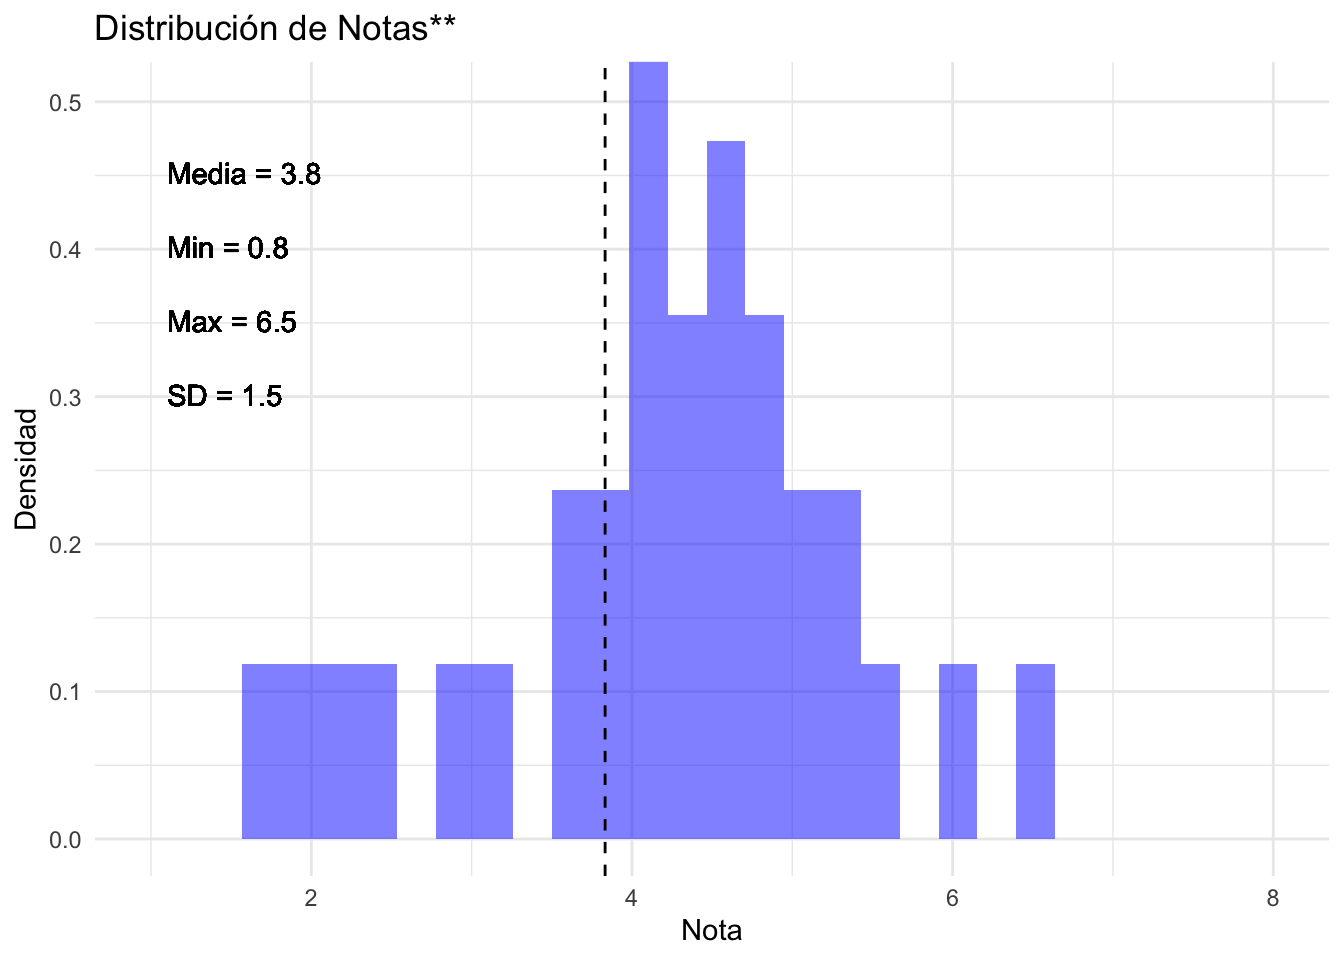
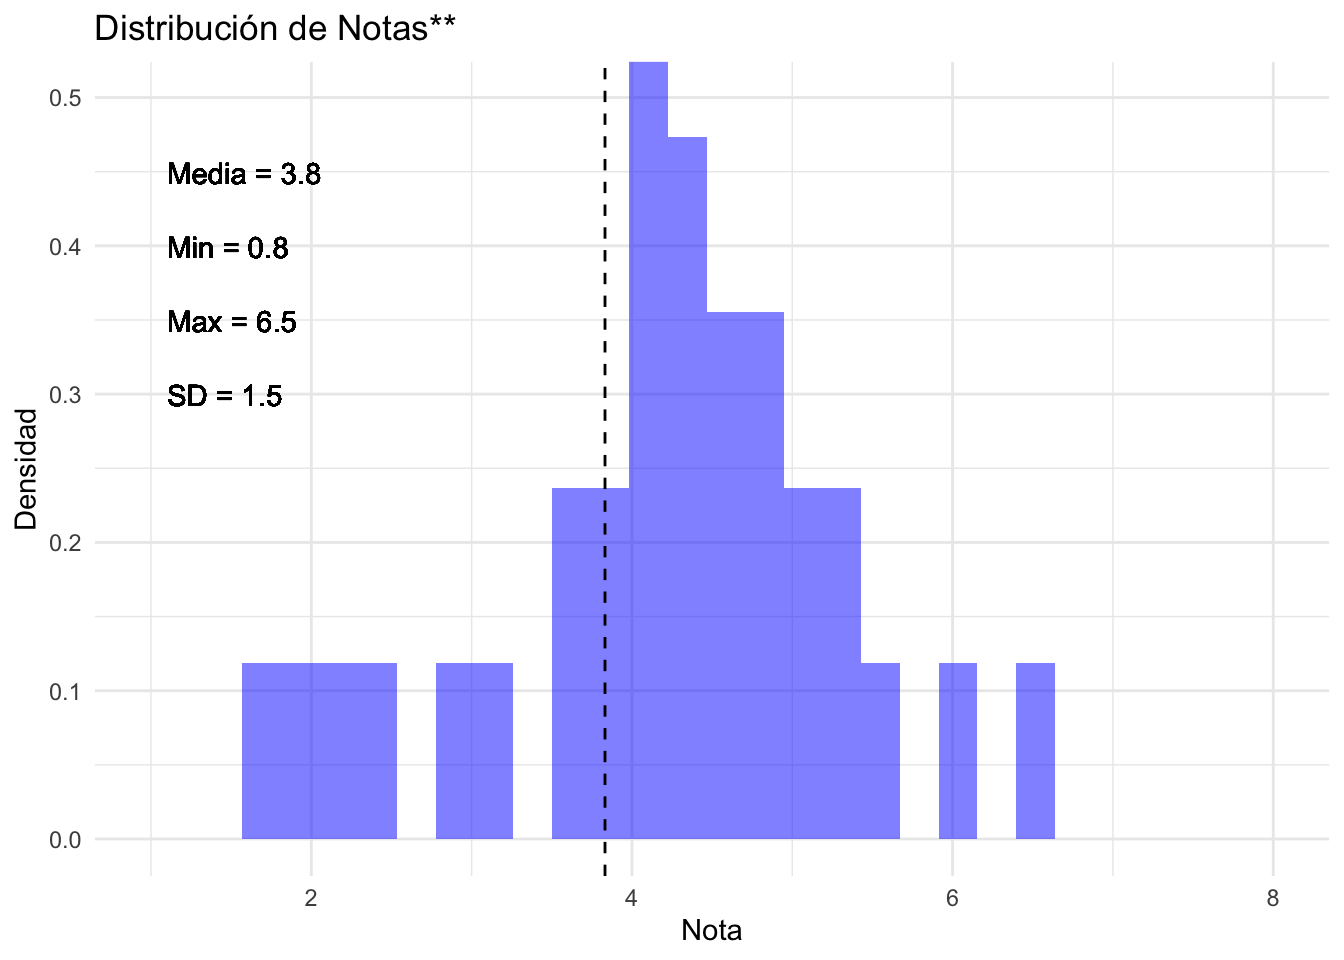
Update

diff --git a/exams/notas_final.html b/exams/notas_final.html
@@ -90,272 +90,272 @@ ul.task-list li input[type="checkbox"] {
 <tr class="odd">
 <td style="text-align: left;">19759810-7</td>
 <td style="text-align: right;">3.3</td>
-<td style="text-align: right;">1.10</td>
-<td style="text-align: right;">1</td>
+<td style="text-align: right;">1.1</td>
+<td style="text-align: right;">1.0</td>
 <td style="text-align: right;">1.7</td>
 <td style="text-align: right;">0.09</td>
 </tr>
 <tr class="even">
 <td style="text-align: left;">21089698-8</td>
 <td style="text-align: right;">5.5</td>
-<td style="text-align: right;">3.72</td>
-<td style="text-align: right;">4</td>
-<td style="text-align: right;">4.3</td>
+<td style="text-align: right;">3.7</td>
+<td style="text-align: right;">3.7</td>
+<td style="text-align: right;">4.2</td>
 <td style="text-align: right;">0.56</td>
 </tr>
 <tr class="odd">
 <td style="text-align: left;">19815180-7</td>
 <td style="text-align: right;">3.5</td>
-<td style="text-align: right;">1.79</td>
-<td style="text-align: right;">6</td>
+<td style="text-align: right;">1.8</td>
+<td style="text-align: right;">5.9</td>
 <td style="text-align: right;">3.5</td>
 <td style="text-align: right;">0.26</td>
 </tr>
 <tr class="even">
 <td style="text-align: left;">20415793-6</td>
 <td style="text-align: right;">1.0</td>
-<td style="text-align: right;">1.00</td>
-<td style="text-align: right;">1</td>
+<td style="text-align: right;">1.0</td>
+<td style="text-align: right;">1.0</td>
 <td style="text-align: right;">1.0</td>
 <td style="text-align: right;">0.06</td>
 </tr>
 <tr class="odd">
 <td style="text-align: left;">20186904-8</td>
 <td style="text-align: right;">2.5</td>
-<td style="text-align: right;">4.21</td>
-<td style="text-align: right;">6</td>
+<td style="text-align: right;">4.2</td>
+<td style="text-align: right;">5.5</td>
 <td style="text-align: right;">4.1</td>
 <td style="text-align: right;">0.44</td>
 </tr>
 <tr class="even">
 <td style="text-align: left;">20968980-4</td>
 <td style="text-align: right;">5.6</td>
-<td style="text-align: right;">3.79</td>
-<td style="text-align: right;">6</td>
+<td style="text-align: right;">3.8</td>
+<td style="text-align: right;">6.1</td>
 <td style="text-align: right;">5.0</td>
 <td style="text-align: right;">0.82</td>
 </tr>
 <tr class="odd">
 <td style="text-align: left;">20951560-1</td>
 <td style="text-align: right;">4.5</td>
-<td style="text-align: right;">3.28</td>
-<td style="text-align: right;">5</td>
+<td style="text-align: right;">3.3</td>
+<td style="text-align: right;">4.7</td>
 <td style="text-align: right;">4.1</td>
 <td style="text-align: right;">0.41</td>
 </tr>
 <tr class="even">
 <td style="text-align: left;">20694494-3</td>
 <td style="text-align: right;">4.2</td>
-<td style="text-align: right;">3.89</td>
-<td style="text-align: right;">7</td>
+<td style="text-align: right;">3.9</td>
+<td style="text-align: right;">6.6</td>
 <td style="text-align: right;">4.8</td>
 <td style="text-align: right;">0.74</td>
 </tr>
 <tr class="odd">
 <td style="text-align: left;">21366609-6</td>
 <td style="text-align: right;">5.3</td>
-<td style="text-align: right;">5.47</td>
-<td style="text-align: right;">5</td>
+<td style="text-align: right;">5.5</td>
+<td style="text-align: right;">5.0</td>
 <td style="text-align: right;">5.3</td>
 <td style="text-align: right;">0.91</td>
 </tr>
 <tr class="even">
 <td style="text-align: left;">21272246-4</td>
 <td style="text-align: right;">5.7</td>
-<td style="text-align: right;">5.99</td>
-<td style="text-align: right;">6</td>
+<td style="text-align: right;">6.0</td>
+<td style="text-align: right;">6.3</td>
 <td style="text-align: right;">6.0</td>
 <td style="text-align: right;">0.97</td>
 </tr>
 <tr class="odd">
 <td style="text-align: left;">21408676-K</td>
 <td style="text-align: right;">6.9</td>
-<td style="text-align: right;">4.19</td>
-<td style="text-align: right;">5</td>
+<td style="text-align: right;">4.2</td>
+<td style="text-align: right;">5.1</td>
 <td style="text-align: right;">5.3</td>
 <td style="text-align: right;">0.88</td>
 </tr>
 <tr class="even">
 <td style="text-align: left;">21073340-K</td>
 <td style="text-align: right;">1.9</td>
-<td style="text-align: right;">2.51</td>
-<td style="text-align: right;">2</td>
+<td style="text-align: right;">2.5</td>
+<td style="text-align: right;">2.0</td>
 <td style="text-align: right;">2.2</td>
 <td style="text-align: right;">0.15</td>
 </tr>
 <tr class="odd">
 <td style="text-align: left;">21182305-4</td>
 <td style="text-align: right;">5.8</td>
-<td style="text-align: right;">3.43</td>
-<td style="text-align: right;">5</td>
+<td style="text-align: right;">3.4</td>
+<td style="text-align: right;">5.0</td>
 <td style="text-align: right;">4.6</td>
 <td style="text-align: right;">0.71</td>
 </tr>
 <tr class="even">
 <td style="text-align: left;">20837715-9</td>
 <td style="text-align: right;">6.7</td>
-<td style="text-align: right;">4.78</td>
-<td style="text-align: right;">4</td>
-<td style="text-align: right;">5.2</td>
+<td style="text-align: right;">4.8</td>
+<td style="text-align: right;">4.1</td>
+<td style="text-align: right;">5.1</td>
 <td style="text-align: right;">0.85</td>
 </tr>
 <tr class="odd">
 <td style="text-align: left;">21010583-2</td>
 <td style="text-align: right;">3.0</td>
-<td style="text-align: right;">1.76</td>
-<td style="text-align: right;">1</td>
+<td style="text-align: right;">1.8</td>
+<td style="text-align: right;">1.0</td>
 <td style="text-align: right;">1.9</td>
 <td style="text-align: right;">0.12</td>
 </tr>
 <tr class="even">
 <td style="text-align: left;">20295489-8</td>
 <td style="text-align: right;">0.3</td>
-<td style="text-align: right;">1.00</td>
-<td style="text-align: right;">1</td>
+<td style="text-align: right;">1.0</td>
+<td style="text-align: right;">1.0</td>
 <td style="text-align: right;">0.8</td>
 <td style="text-align: right;">0.03</td>
 </tr>
 <tr class="odd">
 <td style="text-align: left;">21566221-7</td>
 <td style="text-align: right;">3.6</td>
-<td style="text-align: right;">1.00</td>
-<td style="text-align: right;">3</td>
+<td style="text-align: right;">1.0</td>
+<td style="text-align: right;">2.9</td>
 <td style="text-align: right;">2.3</td>
 <td style="text-align: right;">0.18</td>
 </tr>
 <tr class="even">
 <td style="text-align: left;">21401482-3</td>
 <td style="text-align: right;">6.8</td>
-<td style="text-align: right;">4.75</td>
-<td style="text-align: right;">6</td>
+<td style="text-align: right;">4.8</td>
+<td style="text-align: right;">5.6</td>
 <td style="text-align: right;">5.6</td>
 <td style="text-align: right;">0.94</td>
 </tr>
 <tr class="odd">
 <td style="text-align: left;">21467525-0</td>
 <td style="text-align: right;">6.7</td>
-<td style="text-align: right;">3.10</td>
-<td style="text-align: right;">4</td>
+<td style="text-align: right;">3.1</td>
+<td style="text-align: right;">4.5</td>
 <td style="text-align: right;">4.6</td>
 <td style="text-align: right;">0.68</td>
 </tr>
 <tr class="even">
 <td style="text-align: left;">21376684-8</td>
 <td style="text-align: right;">6.6</td>
-<td style="text-align: right;">3.48</td>
-<td style="text-align: right;">5</td>
+<td style="text-align: right;">3.5</td>
+<td style="text-align: right;">5.2</td>
 <td style="text-align: right;">4.9</td>
 <td style="text-align: right;">0.79</td>
 </tr>
 <tr class="odd">
 <td style="text-align: left;">21384585-3</td>
 <td style="text-align: right;">6.7</td>
-<td style="text-align: right;">2.72</td>
-<td style="text-align: right;">5</td>
+<td style="text-align: right;">2.7</td>
+<td style="text-align: right;">5.0</td>
 <td style="text-align: right;">4.6</td>
 <td style="text-align: right;">0.65</td>
 </tr>
 <tr class="even">
 <td style="text-align: left;">20712317-K</td>
 <td style="text-align: right;">4.5</td>
-<td style="text-align: right;">2.51</td>
-<td style="text-align: right;">5</td>
+<td style="text-align: right;">2.5</td>
+<td style="text-align: right;">5.1</td>
 <td style="text-align: right;">4.0</td>
-<td style="text-align: right;">0.34</td>
+<td style="text-align: right;">0.35</td>
 </tr>
 <tr class="odd">
 <td style="text-align: left;">21459933-3</td>
 <td style="text-align: right;">6.4</td>
-<td style="text-align: right;">2.41</td>
-<td style="text-align: right;">4</td>
+<td style="text-align: right;">2.4</td>
+<td style="text-align: right;">4.5</td>
 <td style="text-align: right;">4.2</td>
 <td style="text-align: right;">0.53</td>
 </tr>
 <tr class="even">
 <td style="text-align: left;">20912214-6</td>
 <td style="text-align: right;">5.7</td>
-<td style="text-align: right;">3.05</td>
-<td style="text-align: right;">4</td>
+<td style="text-align: right;">3.0</td>
+<td style="text-align: right;">3.6</td>
 <td style="text-align: right;">4.0</td>
-<td style="text-align: right;">0.38</td>
+<td style="text-align: right;">0.35</td>
 </tr>
 <tr class="odd">
 <td style="text-align: left;">22363205-K</td>
 <td style="text-align: right;">6.4</td>
-<td style="text-align: right;">3.32</td>
-<td style="text-align: right;">4</td>
+<td style="text-align: right;">3.3</td>
+<td style="text-align: right;">3.7</td>
 <td style="text-align: right;">4.4</td>
 <td style="text-align: right;">0.59</td>
 </tr>
 <tr class="even">
 <td style="text-align: left;">20537306-3</td>
 <td style="text-align: right;">5.6</td>
-<td style="text-align: right;">3.15</td>
-<td style="text-align: right;">5</td>
+<td style="text-align: right;">3.1</td>
+<td style="text-align: right;">5.1</td>
 <td style="text-align: right;">4.5</td>
 <td style="text-align: right;">0.62</td>
 </tr>
 <tr class="odd">
 <td style="text-align: left;">21043499-2</td>
 <td style="text-align: right;">2.3</td>
-<td style="text-align: right;">4.00</td>
-<td style="text-align: right;">3</td>
+<td style="text-align: right;">4.0</td>
+<td style="text-align: right;">2.9</td>
 <td style="text-align: right;">3.2</td>
 <td style="text-align: right;">0.24</td>
 </tr>
 <tr class="even">
 <td style="text-align: left;">21332819-0</td>
 <td style="text-align: right;">6.4</td>
-<td style="text-align: right;">4.25</td>
-<td style="text-align: right;">4</td>
+<td style="text-align: right;">4.2</td>
+<td style="text-align: right;">4.1</td>
 <td style="text-align: right;">4.8</td>
 <td style="text-align: right;">0.76</td>
 </tr>
 <tr class="odd">
 <td style="text-align: left;">21554348-K</td>
 <td style="text-align: right;">5.1</td>
-<td style="text-align: right;">3.83</td>
-<td style="text-align: right;">4</td>
+<td style="text-align: right;">3.8</td>
+<td style="text-align: right;">3.7</td>
 <td style="text-align: right;">4.2</td>
 <td style="text-align: right;">0.50</td>
 </tr>
 <tr class="even">
 <td style="text-align: left;">21562329-7</td>
 <td style="text-align: right;">4.4</td>
-<td style="text-align: right;">2.85</td>
-<td style="text-align: right;">4</td>
+<td style="text-align: right;">2.8</td>
+<td style="text-align: right;">3.9</td>
 <td style="text-align: right;">3.6</td>
 <td style="text-align: right;">0.29</td>
 </tr>
 <tr class="odd">
 <td style="text-align: left;">21493222-9</td>
 <td style="text-align: right;">5.6</td>
-<td style="text-align: right;">2.25</td>
-<td style="text-align: right;">1</td>
+<td style="text-align: right;">2.2</td>
+<td style="text-align: right;">1.0</td>
 <td style="text-align: right;">2.9</td>
 <td style="text-align: right;">0.21</td>
 </tr>
 <tr class="even">
 <td style="text-align: left;">21310133-1</td>
 <td style="text-align: right;">5.0</td>
-<td style="text-align: right;">2.87</td>
-<td style="text-align: right;">4</td>
+<td style="text-align: right;">2.9</td>
+<td style="text-align: right;">4.4</td>
 <td style="text-align: right;">4.0</td>
-<td style="text-align: right;">0.34</td>
+<td style="text-align: right;">0.35</td>
 </tr>
 <tr class="odd">
 <td style="text-align: left;">21251261-3</td>
 <td style="text-align: right;">7.0</td>
-<td style="text-align: right;">5.81</td>
-<td style="text-align: right;">7</td>
+<td style="text-align: right;">5.8</td>
+<td style="text-align: right;">6.8</td>
 <td style="text-align: right;">6.5</td>
 <td style="text-align: right;">1.00</td>
 </tr>
 <tr class="even">
 <td style="text-align: left;">21438728-K</td>
 <td style="text-align: right;">4.4</td>
-<td style="text-align: right;">3.12</td>
-<td style="text-align: right;">5</td>
+<td style="text-align: right;">3.1</td>
+<td style="text-align: right;">5.1</td>
 <td style="text-align: right;">4.1</td>
 <td style="text-align: right;">0.47</td>
 </tr>
@@ -420,7 +420,7 @@ ul.task-list li input[type="checkbox"] {
 <tr class="even">
 <td style="text-align: left;">FELIPE EMILIO</td>
 <td style="text-align: left;">MEJÍAS</td>
-<td style="text-align: right;">5.2</td>
+<td style="text-align: right;">5.1</td>
 </tr>
 <tr class="odd">
 <td style="text-align: left;">VICENTE SANTIAGO</td>
